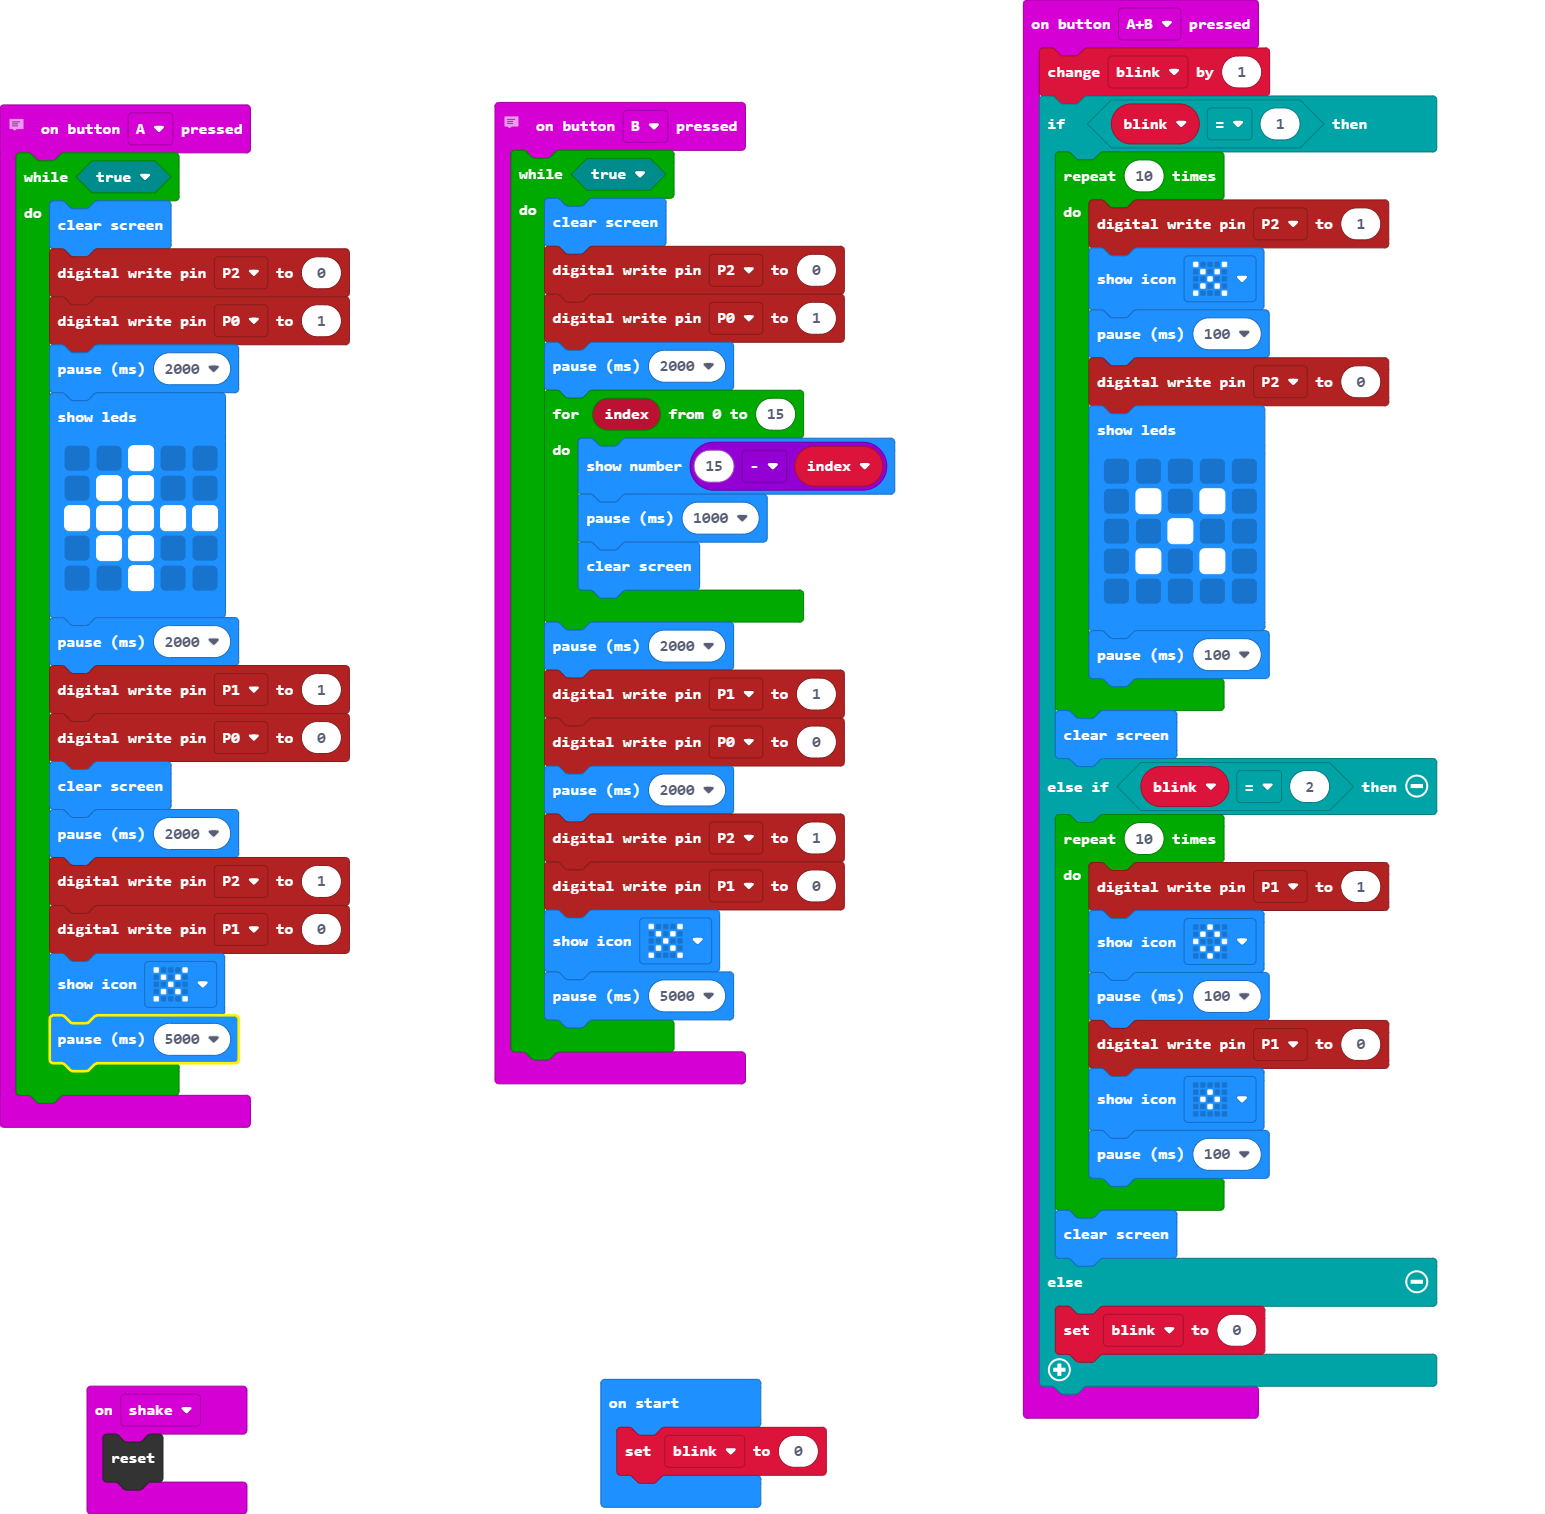
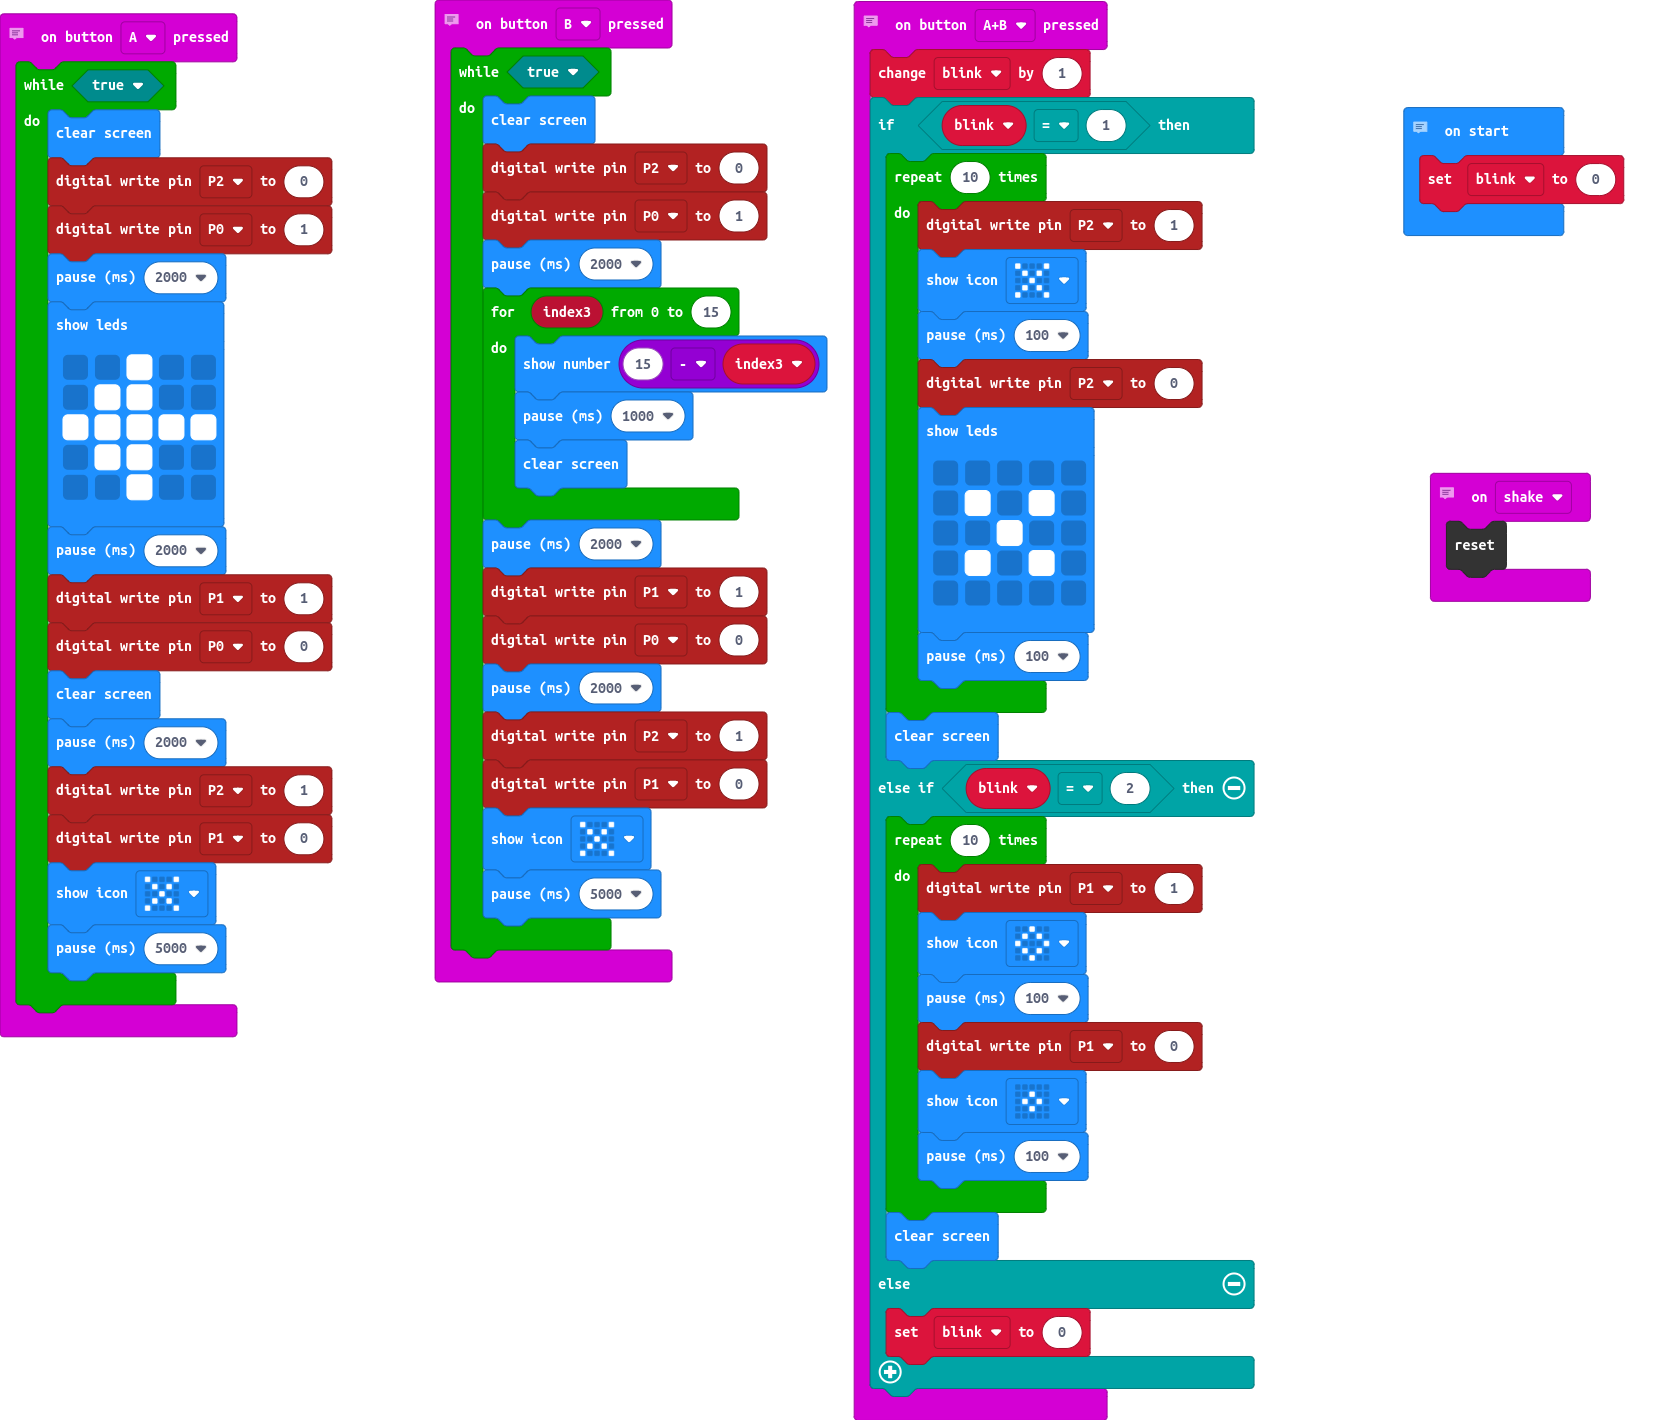
Update main.blocks, main.ts

diff --git a/main.ts b/main.ts
@@ -27,6 +27,9 @@ input.onButtonPressed(Button.A, function () {
         basic.pause(5000)
     }
 })
+// when button A+B is pressed, a blinking red light with a large-to-small "X" sign to represent a stop sign at an intersection
+// 
+// when button A+B is pressed again, a blinking yellow light with a large-to-small diamond to represent caution or slow down at an intersection
 input.onButtonPressed(Button.AB, function () {
     blink += 1
     if (blink == 1) {
@@ -70,8 +73,8 @@ input.onButtonPressed(Button.B, function () {
         pins.digitalWritePin(DigitalPin.P2, 0)
         pins.digitalWritePin(DigitalPin.P0, 1)
         basic.pause(2000)
-        for (let index = 0; index <= 15; index++) {
-            basic.showNumber(15 - index)
+        for (let index3 = 0; index3 <= 15; index3++) {
+            basic.showNumber(15 - index3)
             basic.pause(1000)
             basic.clearScreen()
         }
@@ -85,8 +88,10 @@ input.onButtonPressed(Button.B, function () {
         basic.pause(5000)
     }
 })
+// shake to reset each program
 input.onGesture(Gesture.Shake, function () {
     control.reset()
 })
+// sets the variable "blink" (used for button A+B) to 0
 let blink = 0
 blink = 0
